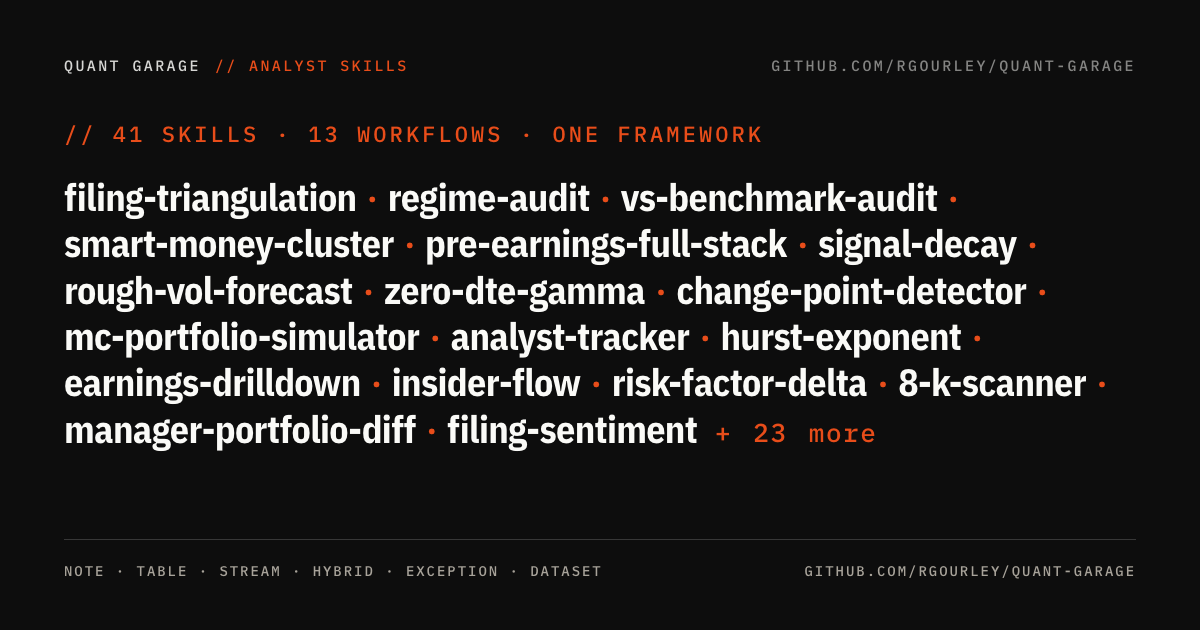
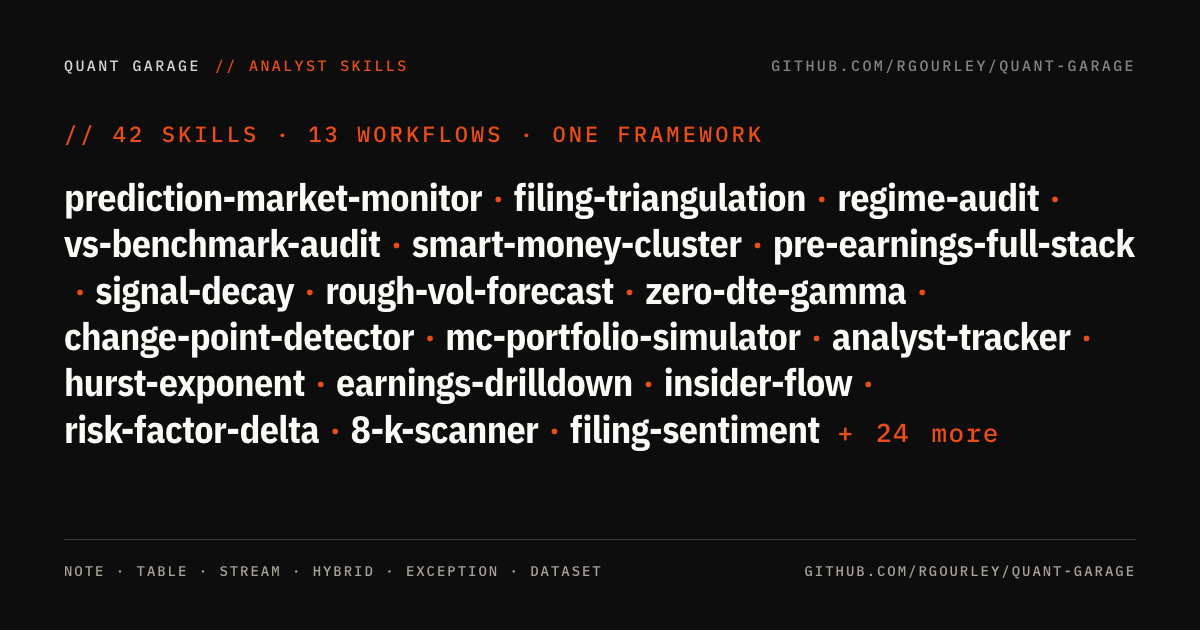
docs: bump to 42 primitives
Reflect the addition of prediction-market-monitor as the first skill
that runs without a Massive API key at all (uses Kalshi's public
API). Freetier count bumped from 20 to 21 primitives.

Updates:
- README count strings 41 -> 42
- New README entry under Market context section
- assets/og.html, skills.html, closing.html: 41 -> 42 SKILLS with
  prediction-market-monitor added to the marquee list
- PLAN-MATRIX.md: row added for prediction-market-monitor with
  "(no Massive key)" tier note

Changed region(s): [[0.0308, 0.2714, 0.9558, 0.7238]]

diff --git a/assets/skills.html b/assets/skills.html
@@ -113,10 +113,10 @@
     <span class="brand-url">github.com/rgourley/quant-garage</span>
   </div>
 
-  <div class="kicker">// 41 SKILLS · 13 WORKFLOWS · ONE FRAMEWORK</div>
+  <div class="kicker">// 42 SKILLS · 13 WORKFLOWS · ONE FRAMEWORK</div>
 
   <div class="skills">
-    <span class="name">filing-triangulation</span><span class="sep">·</span><span class="name">regime-audit</span><span class="sep">·</span><span class="name">vs-benchmark-audit</span><span class="sep">·</span><span class="name">smart-money-cluster</span><span class="sep">·</span><span class="name">pre-earnings-full-stack</span><span class="sep">·</span><span class="name">signal-decay</span><span class="sep">·</span><span class="name">rough-vol-forecast</span><span class="sep">·</span><span class="name">zero-dte-gamma</span><span class="sep">·</span><span class="name">change-point-detector</span><span class="sep">·</span><span class="name">mc-portfolio-simulator</span><span class="sep">·</span><span class="name">analyst-tracker</span><span class="sep">·</span><span class="name">hurst-exponent</span><span class="sep">·</span><span class="name">earnings-drilldown</span><span class="sep">·</span><span class="name">insider-flow</span><span class="sep">·</span><span class="name">risk-factor-delta</span><span class="sep">·</span><span class="name">8-k-scanner</span><span class="sep">·</span><span class="name">manager-portfolio-diff</span><span class="sep">·</span><span class="name">filing-sentiment</span><span class="more">+ 23 more</span>
+    <span class="name">prediction-market-monitor</span><span class="sep">·</span><span class="name">filing-triangulation</span><span class="sep">·</span><span class="name">regime-audit</span><span class="sep">·</span><span class="name">vs-benchmark-audit</span><span class="sep">·</span><span class="name">smart-money-cluster</span><span class="sep">·</span><span class="name">pre-earnings-full-stack</span><span class="sep">·</span><span class="name">signal-decay</span><span class="sep">·</span><span class="name">rough-vol-forecast</span><span class="sep">·</span><span class="name">zero-dte-gamma</span><span class="sep">·</span><span class="name">change-point-detector</span><span class="sep">·</span><span class="name">mc-portfolio-simulator</span><span class="sep">·</span><span class="name">analyst-tracker</span><span class="sep">·</span><span class="name">hurst-exponent</span><span class="sep">·</span><span class="name">earnings-drilldown</span><span class="sep">·</span><span class="name">insider-flow</span><span class="sep">·</span><span class="name">risk-factor-delta</span><span class="sep">·</span><span class="name">8-k-scanner</span><span class="sep">·</span><span class="name">filing-sentiment</span><span class="more">+ 24 more</span>
   </div>
 
   <div class="spacer"></div>

diff --git a/assets/closing.html b/assets/closing.html
@@ -145,7 +145,7 @@
   </div>
 
   <div class="footer">
-    <span>QUANT GARAGE · 41 SKILLS · 13 WORKFLOWS · 5 OUTPUT MODES</span>
+    <span>QUANT GARAGE · 42 SKILLS · 13 WORKFLOWS · 5 OUTPUT MODES</span>
     <span>GITHUB.COM/RGOURLEY/QUANT-GARAGE</span>
   </div>
 

diff --git a/assets/og.html b/assets/og.html
@@ -147,7 +147,7 @@
   <div class="spacer"></div>
 
   <div class="stat-row">
-    <div class="big-value" style="font-size: 52px;">41 tools · 13 workflows.</div>
+    <div class="big-value" style="font-size: 52px;">42 tools · 13 workflows.</div>
     <div class="meta">Every output cited to a live API call</div>
   </div>
 

diff --git a/README.md b/README.md
@@ -16,13 +16,14 @@ work because every skill ships the same compute as two layers: the
 JSON contract for developers and a rendered note, table, stream, or
 report for humans.
 
-Forty-one primitives plus thirteen one-command workflows. One
+Forty-two primitives plus thirteen one-command workflows. One
 framework. Built in the garage, not the trading floor.
 
 **Needs a [Massive API key](https://massive.com/pricing).** Free Basic
-tier runs twenty of the primitives plus most workflows end-to-end;
-$29/month Stocks Starter opens thirty-eight of the forty-one primitives
-and every workflow.
+tier runs twenty-one of the primitives plus most workflows end-to-end;
+$29/month Stocks Starter opens thirty-nine of the forty-two primitives
+and every workflow. One primitive (prediction-market-monitor) needs
+no Massive key at all — it uses Kalshi's public read-only API.
 
 **Feedback welcome.** Found a bug or have an idea? Open an
 [issue](https://github.com/rgourley/quant-garage/issues) or send a
@@ -30,7 +31,7 @@ and every workflow.
 
 ## What the collection does
 
-Each primitive is useful on its own. The point of having forty-one that
+Each primitive is useful on its own. The point of having forty-two that
 share data, methodology, and audit trail is that they chain. The
 eight workflows show what that chaining looks like when someone
 wires the pieces together for a specific cadence.
@@ -197,9 +198,9 @@ Concrete situations, mapped to the workflow that solves them.
 | "My friend asked about a stock. Give me the plain-language read." | [`stock-one-pager`](skills/stock-one-pager) | ~10s |
 | "Screen for candidates in this regime." | [`scan-and-frame`](skills/scan-and-frame) | ~30s (or ~90s with the factor pass) |
 
-For the 41 individual primitives (compose your own workflow), scroll down.
+For the 42 individual primitives (compose your own workflow), scroll down.
 
-## The 41 building-block tools, with real use cases
+## The 42 building-block tools, with real use cases
 
 The workflows above are chains of these. If you're building your
 own workflow or agent, this is the shelf of primitives to compose
@@ -360,6 +361,18 @@ SPY: 120-day vol drops from 11.66% (traditional) to 2.08% (rough) —
 a 5x reduction that changes how you size long-horizon scenarios.
 
 ### Market context
+
+**[`prediction-market-monitor`](skills/prediction-market-monitor)**
+Kalshi prediction market monitor for Fed decisions, CPI, GDP, NFP,
+and other macro / market events. Motivated by 2025-26 post-election
+growth of prediction markets as leading indicators. Reports the
+implied probability at each strike, derives the cross-strike
+probability distribution when the event is a laddered strike-type
+(like KXFED-27APR-T4.25, T4.00, T3.75...), and computes the modal
+outcome and expected value. Live on Kalshi Fed decisions: October
+2027 shows 63.5% probability of a 25bp hike; December 2027 shows a
+split market (37.5% hike vs 49% cut). Uses Kalshi's public
+read-only API; no Massive key required.
 
 **[`market-regime`](skills/market-regime)**
 Daily macro briefing before you do anything else. SPY trend (above
@@ -655,7 +668,7 @@ name via the SEC EDGAR fallback. Good place to try the framework.
 Most people end up wanting **Stocks Starter at $29 per month**. That
 unlocks unlimited rate, 15-minute delayed real-time quotes, options
 contract reference data, and the bulk grouped-aggregates endpoint
-that powers the universe screeners. Thirty-eight of the forty-one
+that powers the universe screeners. Thirty-nine of the forty-two
 tools run on this tier (crypto-vol-scanner, full-fidelity
 options-structure-analyzer, guidance-tracker, and analyst-tracker
 need separate plans; the latter two are Benzinga add-ons). Every workflow

diff --git a/PLAN-MATRIX.md b/PLAN-MATRIX.md
@@ -96,6 +96,7 @@ A few things to know up front:
 | `vs-benchmark-audit` | Workflow | Stocks Basic | Full tearsheet with DSR correction + rolling IC vs benchmark |
 | `smart-money-cluster` | Workflow | Stocks Basic | manager-portfolio-diff across curated cohort of well-known filers |
 | `pre-earnings-full-stack` | Workflow | Stocks Basic | earnings-blackout + event-study + guidance + analyst + MC sizing |
+| `prediction-market-monitor` | REST | (no Massive key) | Kalshi public API for Fed decisions, CPI, GDP, NFP implied probabilities |
 
 ## The workflow composites
 